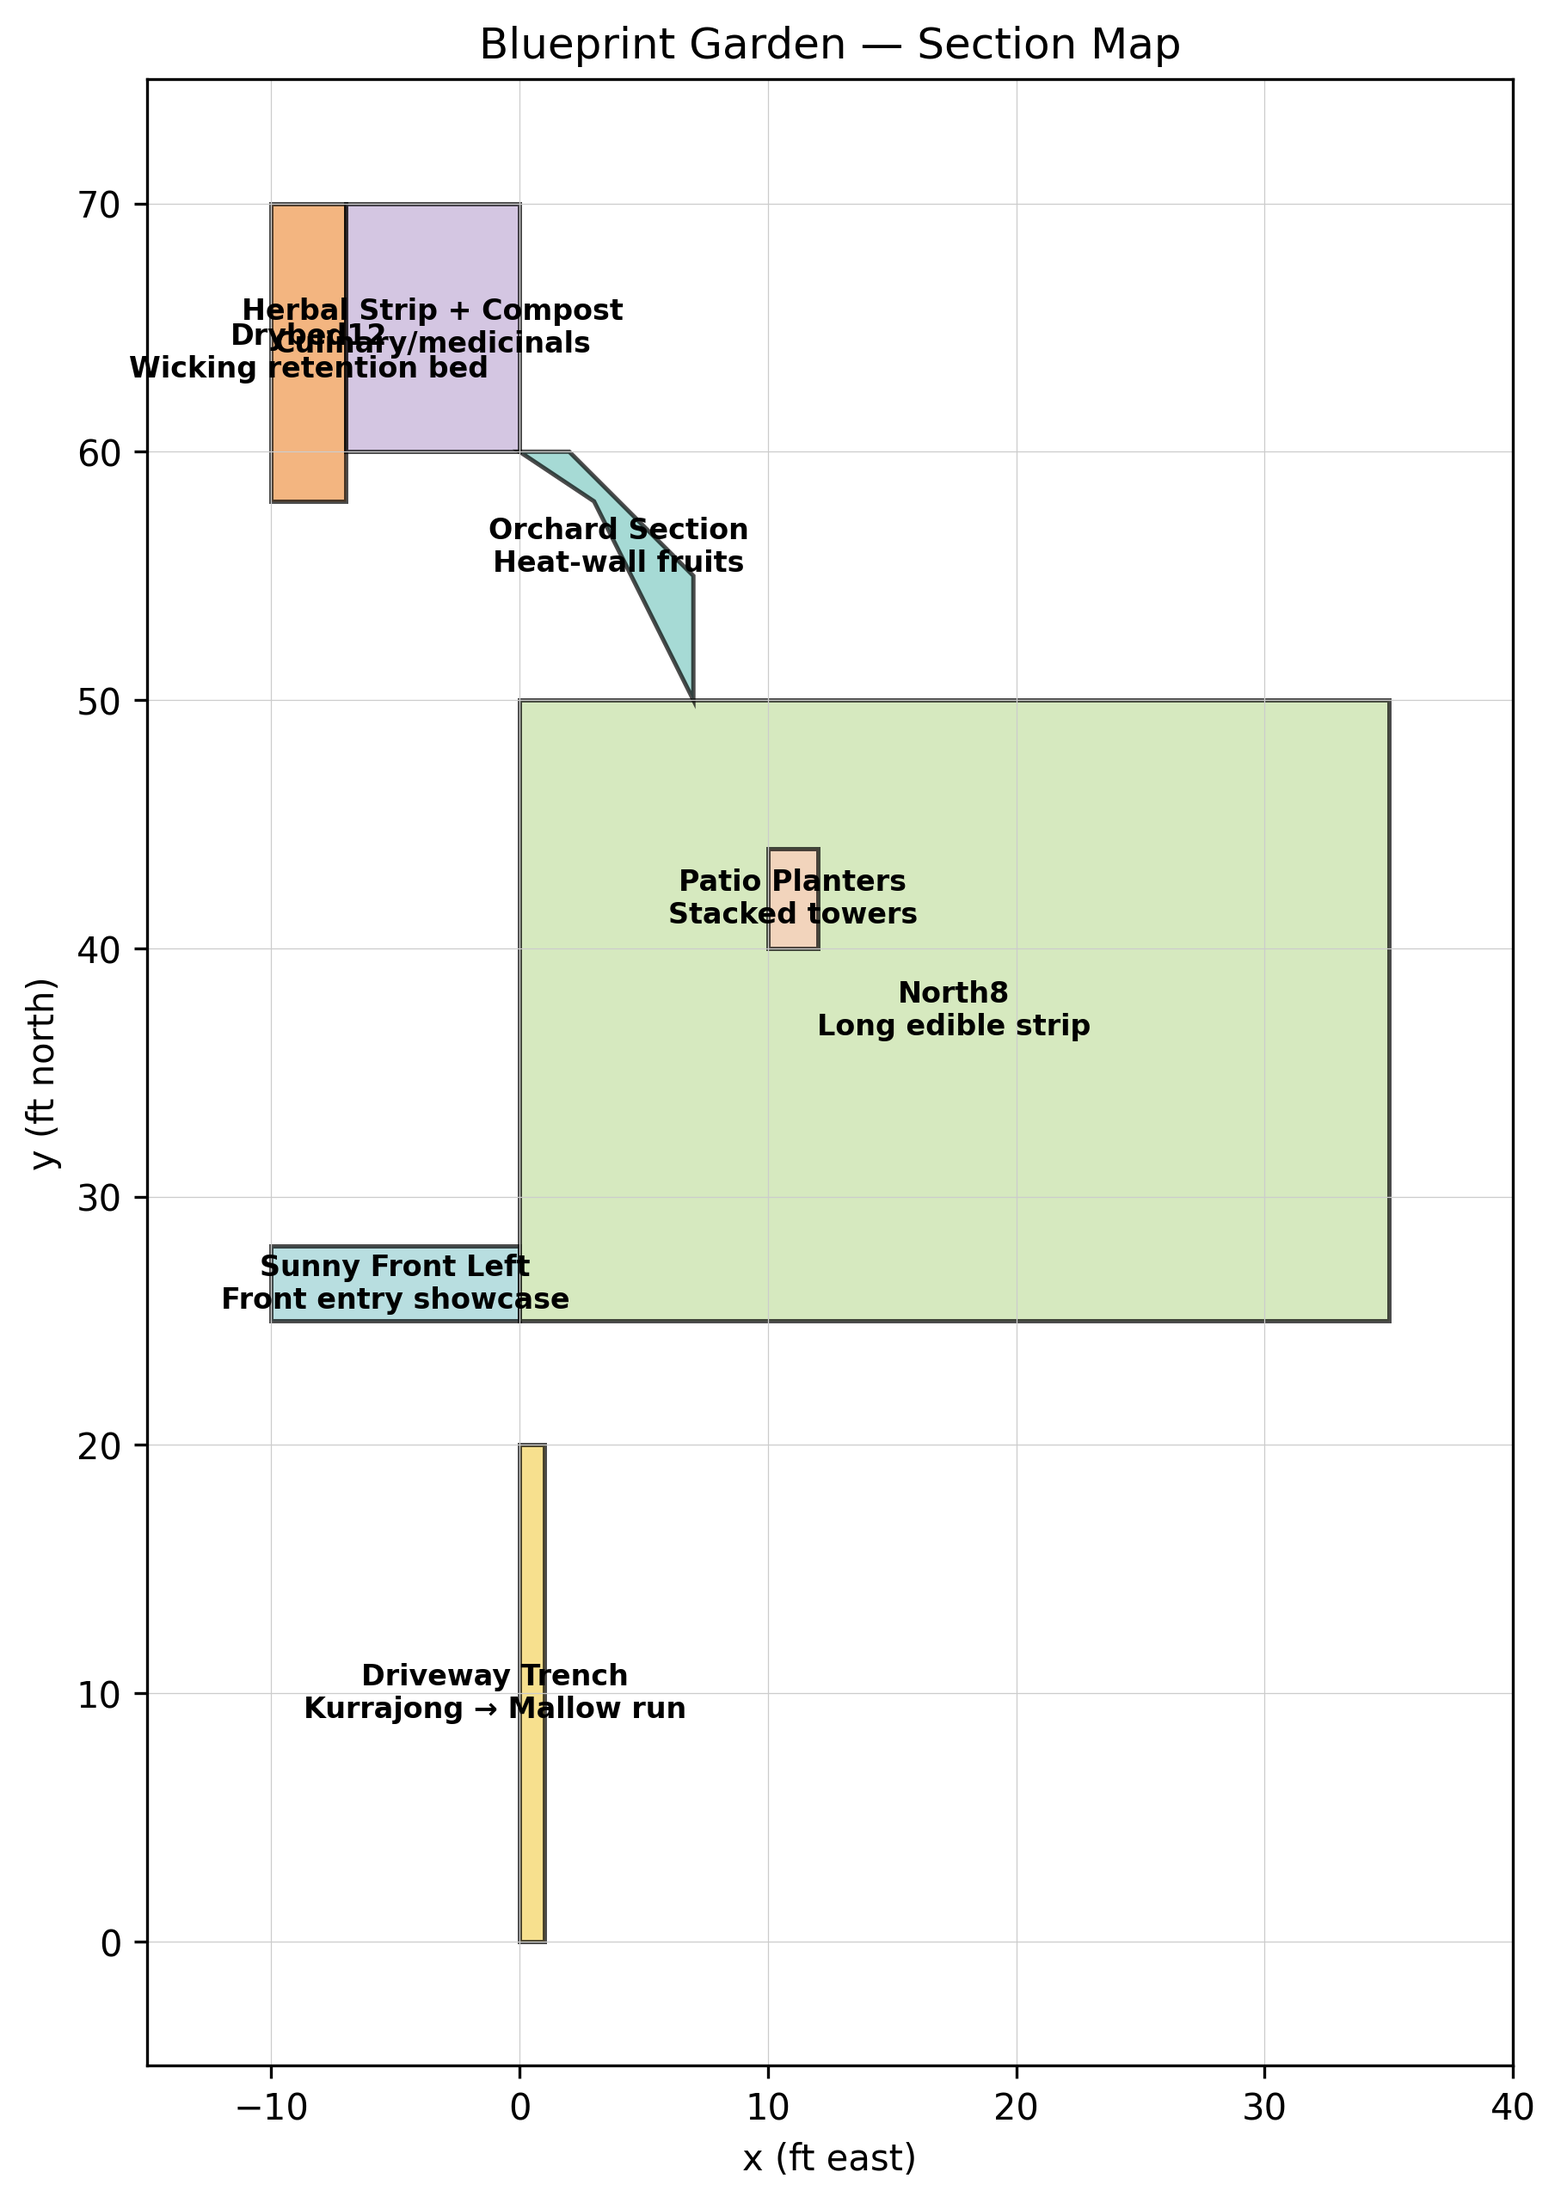
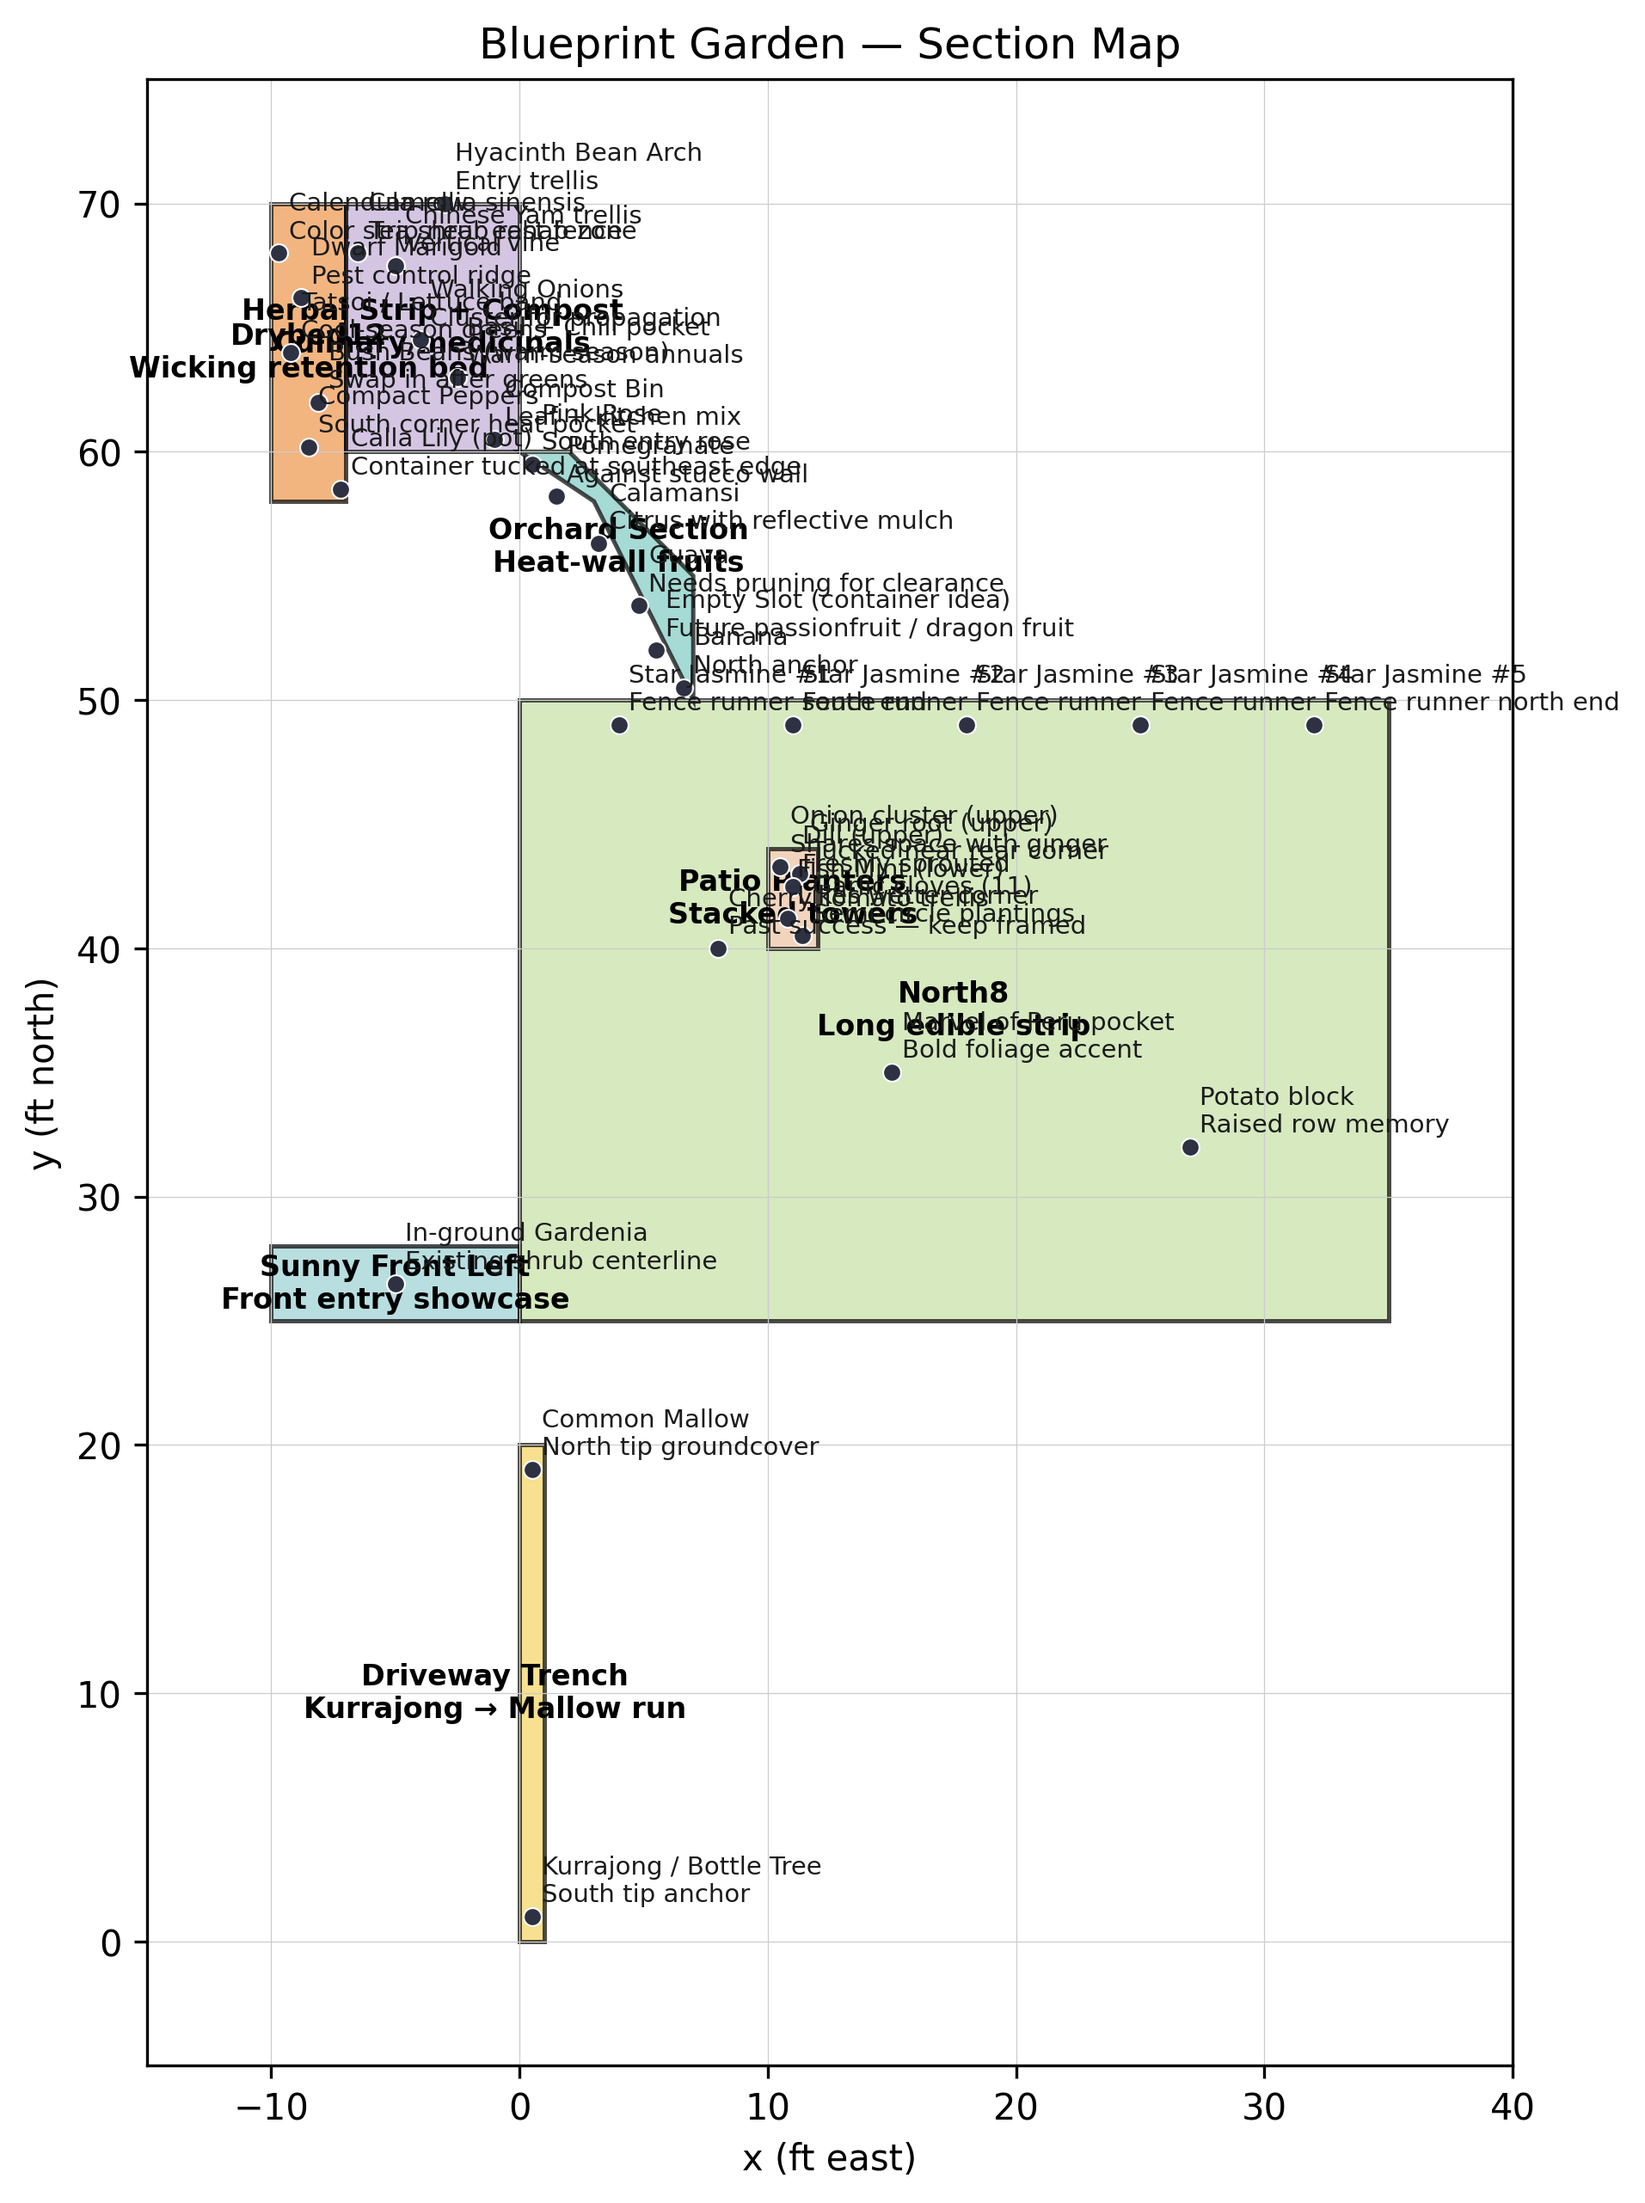
garden details

diff --git a/projects/gardens/map_sections.py b/projects/gardens/map_sections.py
@@ -14,63 +14,14 @@ import argparse
 from pathlib import Path
 from typing import Iterable, List, Sequence, Tuple
 
+import json
 import matplotlib
 
+try:
+    import yaml  # type: ignore
+except ImportError:  # pragma: no cover
+    yaml = None
 
-# Coordinates are in feet using the README coordinate system
-SECTION_DATA: List[dict] = [
-    {
-        "name": "Driveway Trench",
-        "kind": "rect",
-        "coords": (0, 0, 1, 20),
-        "color": "#f4d35e",
-        "note": "Kurrajong → Mallow run",
-        "label_offset": (-1.5, 0),
-    },
-    {
-        "name": "Drybed12",
-        "kind": "rect",
-        "coords": (-10, 70, -7, 58),
-        "color": "#ee964b",
-        "note": "Wicking retention bed",
-    },
-    {
-        "name": "Sunny Front Left",
-        "kind": "rect",
-        "coords": (0, 25, -10, 28),
-        "color": "#9ad1d4",
-        "note": "Front entry showcase",
-    },
-    {
-        "name": "North8",
-        "kind": "rect",
-        "coords": (0, 25, 35, 50),
-        "color": "#c5e1a5",
-        "note": "Long edible strip",
-    },
-    {
-        "name": "Herbal Strip + Compost",
-        "kind": "rect",
-        "coords": (-7, 70, 0, 60),
-        "color": "#c3aed6",
-        "note": "Culinary/medicinals",
-    },
-    {
-        "name": "Orchard Section",
-        "kind": "poly",
-        # Approximate diagonal to show banana→pomegranate run
-        "points": [(0, 60), (3, 58), (5, 54), (7, 50), (7, 55), (2, 60)],
-        "color": "#80cbc4",
-        "note": "Heat-wall fruits",
-    },
-    {
-        "name": "Patio Planters",
-        "kind": "rect",
-        "coords": (10, 40, 12, 44),
-        "color": "#ffccbc",
-        "note": "Stacked towers",
-    },
-]
 
 plt = None  # populated in configure_matplotlib
 Polygon = None
@@ -146,6 +97,37 @@ def _draw_section(ax, section: dict) -> None:
     )
 
 
+def _draw_plants(ax, plants: Sequence[dict]) -> None:
+    if not plants:
+        return
+    for plant in plants:
+        x, y = plant["position"]
+        ax.scatter(
+            x,
+            y,
+            s=25,
+            c="#2d3142",
+            marker="o",
+            edgecolors="white",
+            linewidths=0.5,
+            zorder=5,
+        )
+        dx, dy = plant.get("label_offset", (0.4, 0.4))
+        label = plant["name"]
+        if plant.get("note"):
+            label += f"\n{plant['note']}"
+        ax.text(
+            x + dx,
+            y + dy,
+            label,
+            fontsize=7,
+            ha="left",
+            va="bottom",
+            color="#1b1b1b",
+            zorder=6,
+        )
+
+
 def _compute_bounds(sections: Sequence[dict]) -> Tuple[float, float, float, float]:
     xs: List[float] = []
     ys: List[float] = []
@@ -162,14 +144,15 @@ def _compute_bounds(sections: Sequence[dict]) -> Tuple[float, float, float, floa
     )
 
 
-def build_map(output: Path, show_plot: bool) -> None:
+def build_map(sections: Sequence[dict], output: Path, show_plot: bool) -> None:
     global plt
     assert plt is not None
     fig, ax = plt.subplots(figsize=(9, 10))
-    for section in SECTION_DATA:
+    for section in sections:
         _draw_section(ax, section)
+        _draw_plants(ax, section.get("plants", []))
 
-    xmin, xmax, ymin, ymax = _compute_bounds(SECTION_DATA)
+    xmin, xmax, ymin, ymax = _compute_bounds(sections)
     ax.set_xlim(xmin, xmax)
     ax.set_ylim(ymin, ymax)
     ax.set_xlabel("x (ft east)")
@@ -204,6 +187,12 @@ def parse_args() -> argparse.Namespace:
         "--backend",
         help="Matplotlib backend to use (defaults to Agg when --no-show is supplied).",
     )
+    parser.add_argument(
+        "--data-file",
+        type=Path,
+        default=Path(__file__).with_name("sections.yaml"),
+        help="YAML file describing sections and plants (default: %(default)s)",
+    )
     return parser.parse_args()
 
 
@@ -220,10 +209,24 @@ def configure_matplotlib(backend: str | None, headless: bool) -> None:
     Rectangle = _Rectangle
 
 
+def load_sections(path: Path) -> List[dict]:
+    text = path.read_text(encoding="utf-8")
+    data: dict
+    if yaml is not None:
+        data = yaml.safe_load(text) or {}
+    else:
+        data = json.loads(text)
+    sections = data.get("sections")
+    if not sections:
+        raise SystemExit(f"No sections defined in {path}")
+    return sections
+
+
 def main() -> None:
     args = parse_args()
+    sections = load_sections(args.data_file)
     configure_matplotlib(args.backend, args.no_show)
-    build_map(args.output, show_plot=not args.no_show)
+    build_map(sections, args.output, show_plot=not args.no_show)
 
 
 if __name__ == "__main__":

diff --git a/projects/gardens/README.md b/projects/gardens/README.md
@@ -40,7 +40,8 @@ python3 projects/gardens/map_sections.py --no-show  # export only (default: gard
 ```
 
 The script approximates diagonal runs (e.g., Orchard Section) so update `SECTION_DATA`
-inside `map_sections.py` if you add or refine coordinates.
+inside `sections.yaml` if you add or refine coordinates or plant placements. Each entry
+can list multiple `plants` with `position: [x,y]` pairs to drop pins on the map.
 
 ---
 
